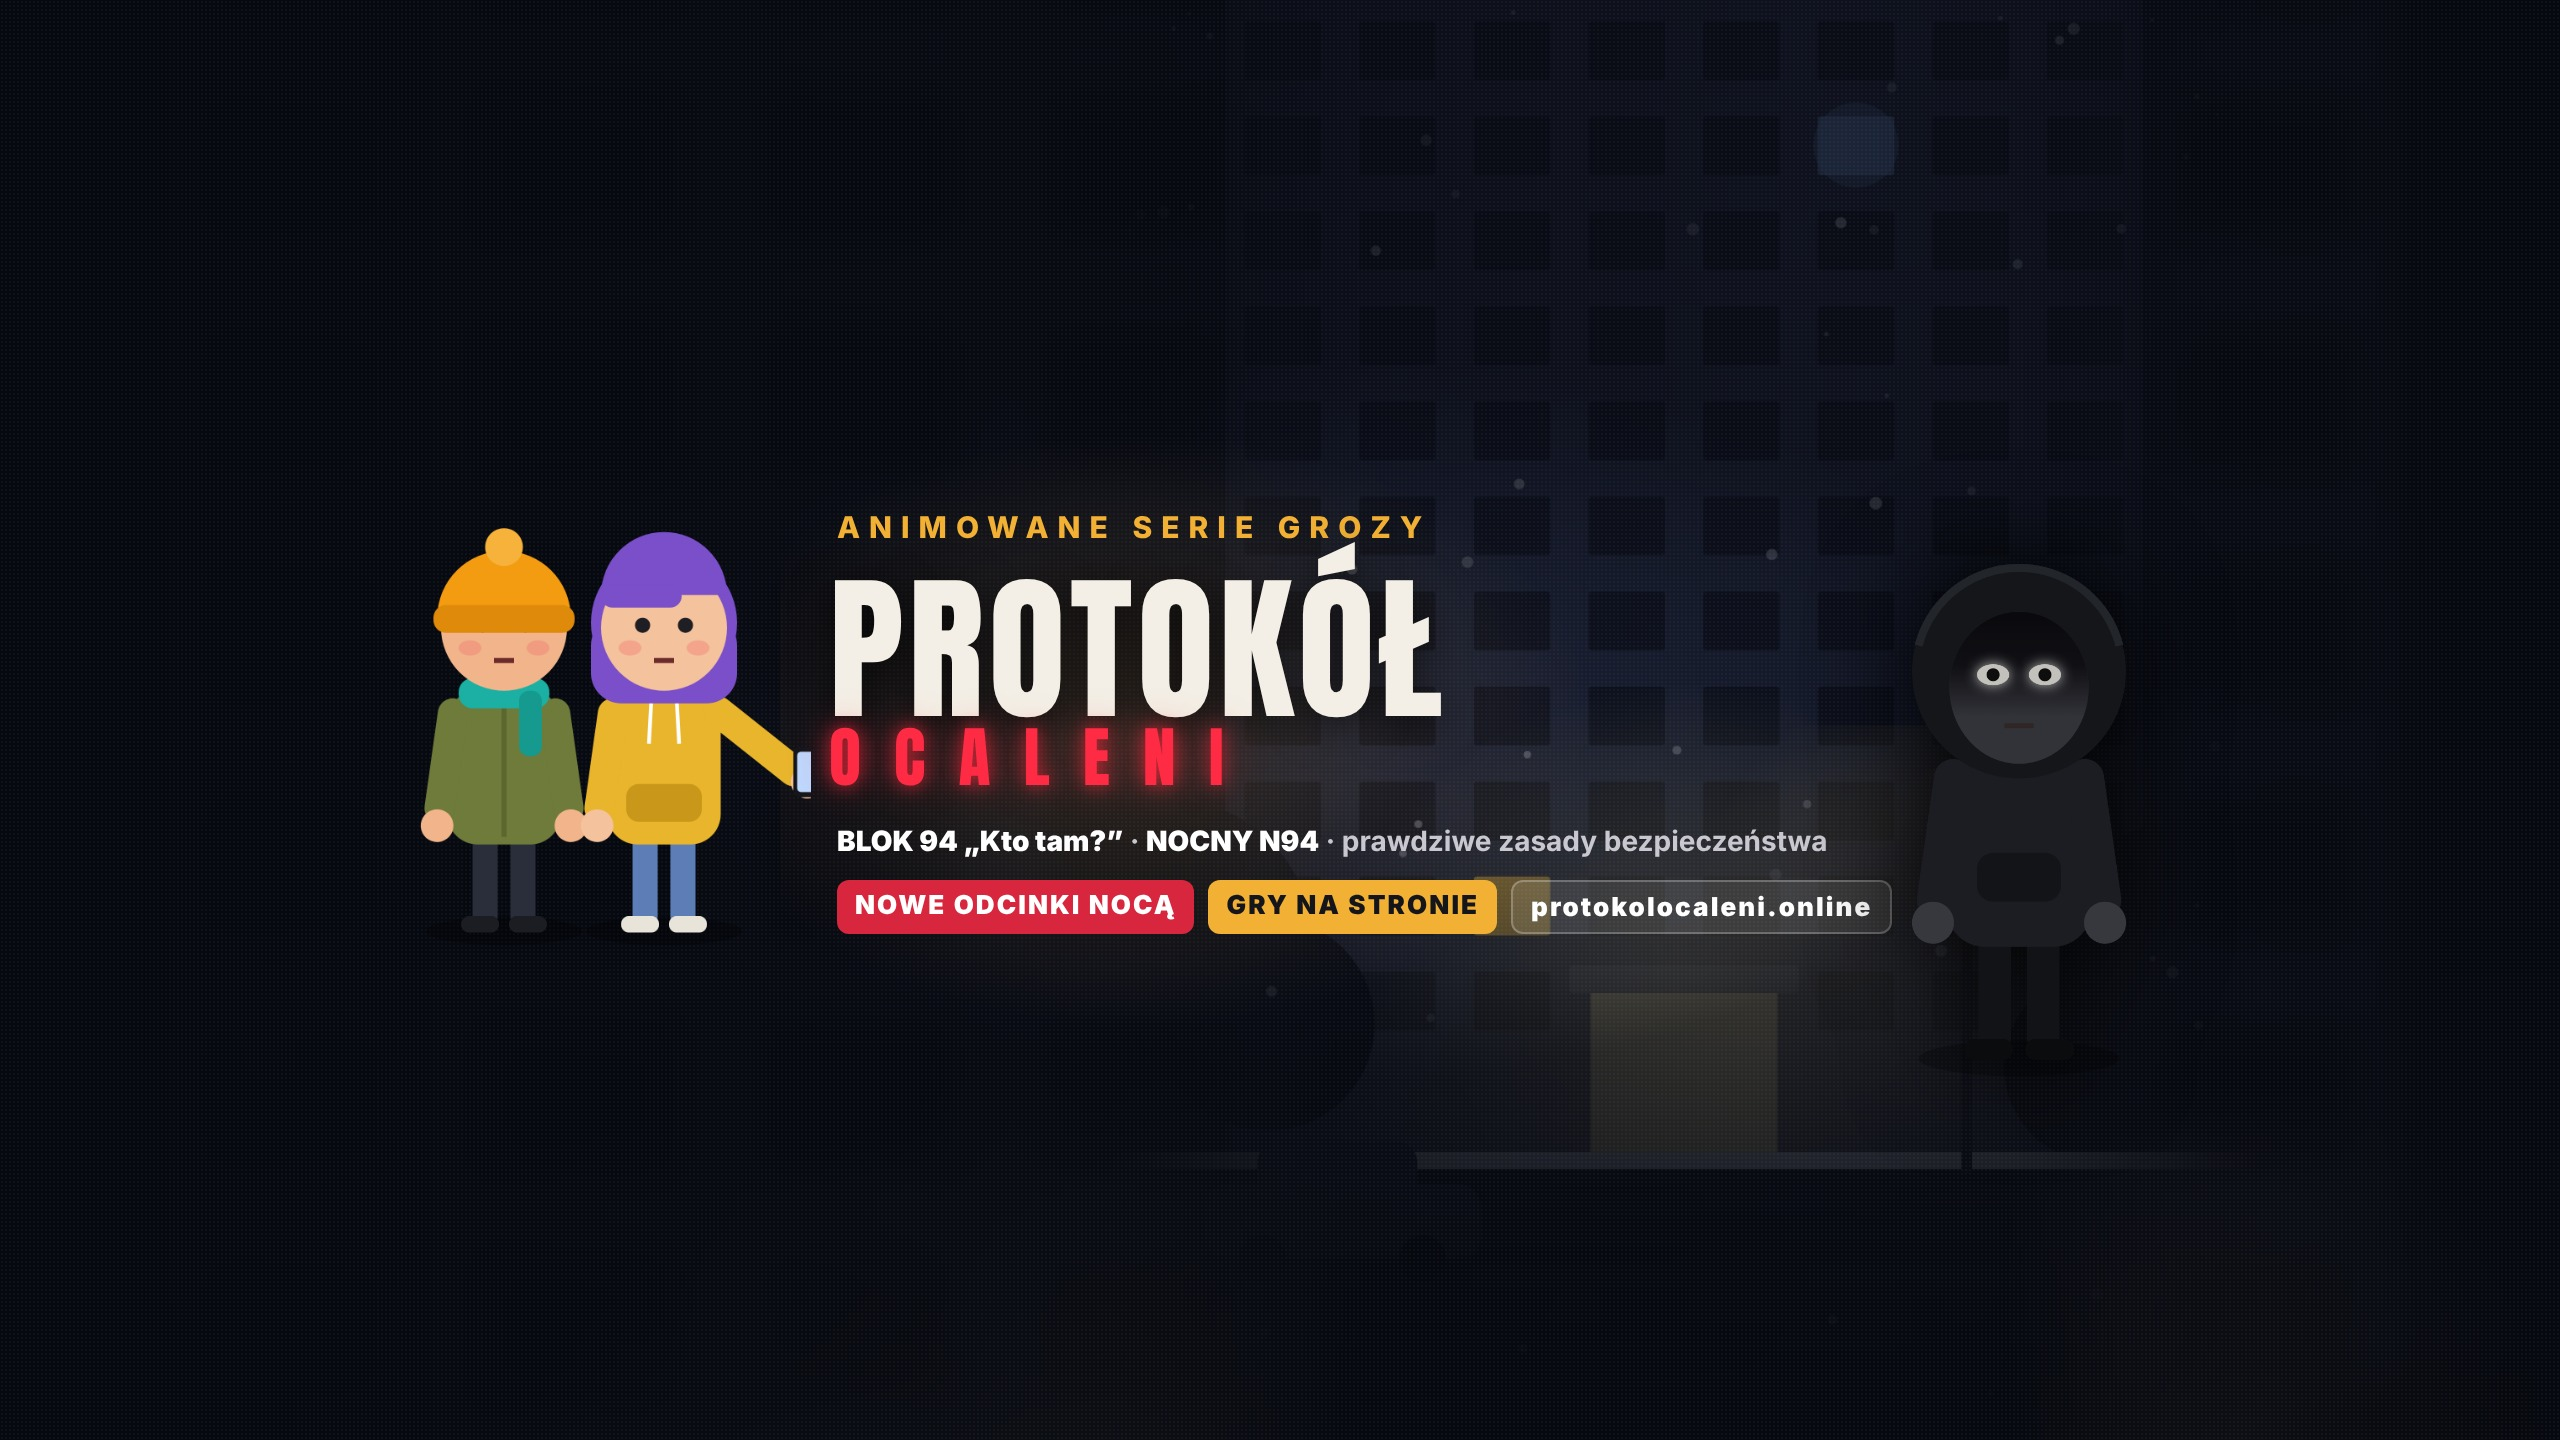
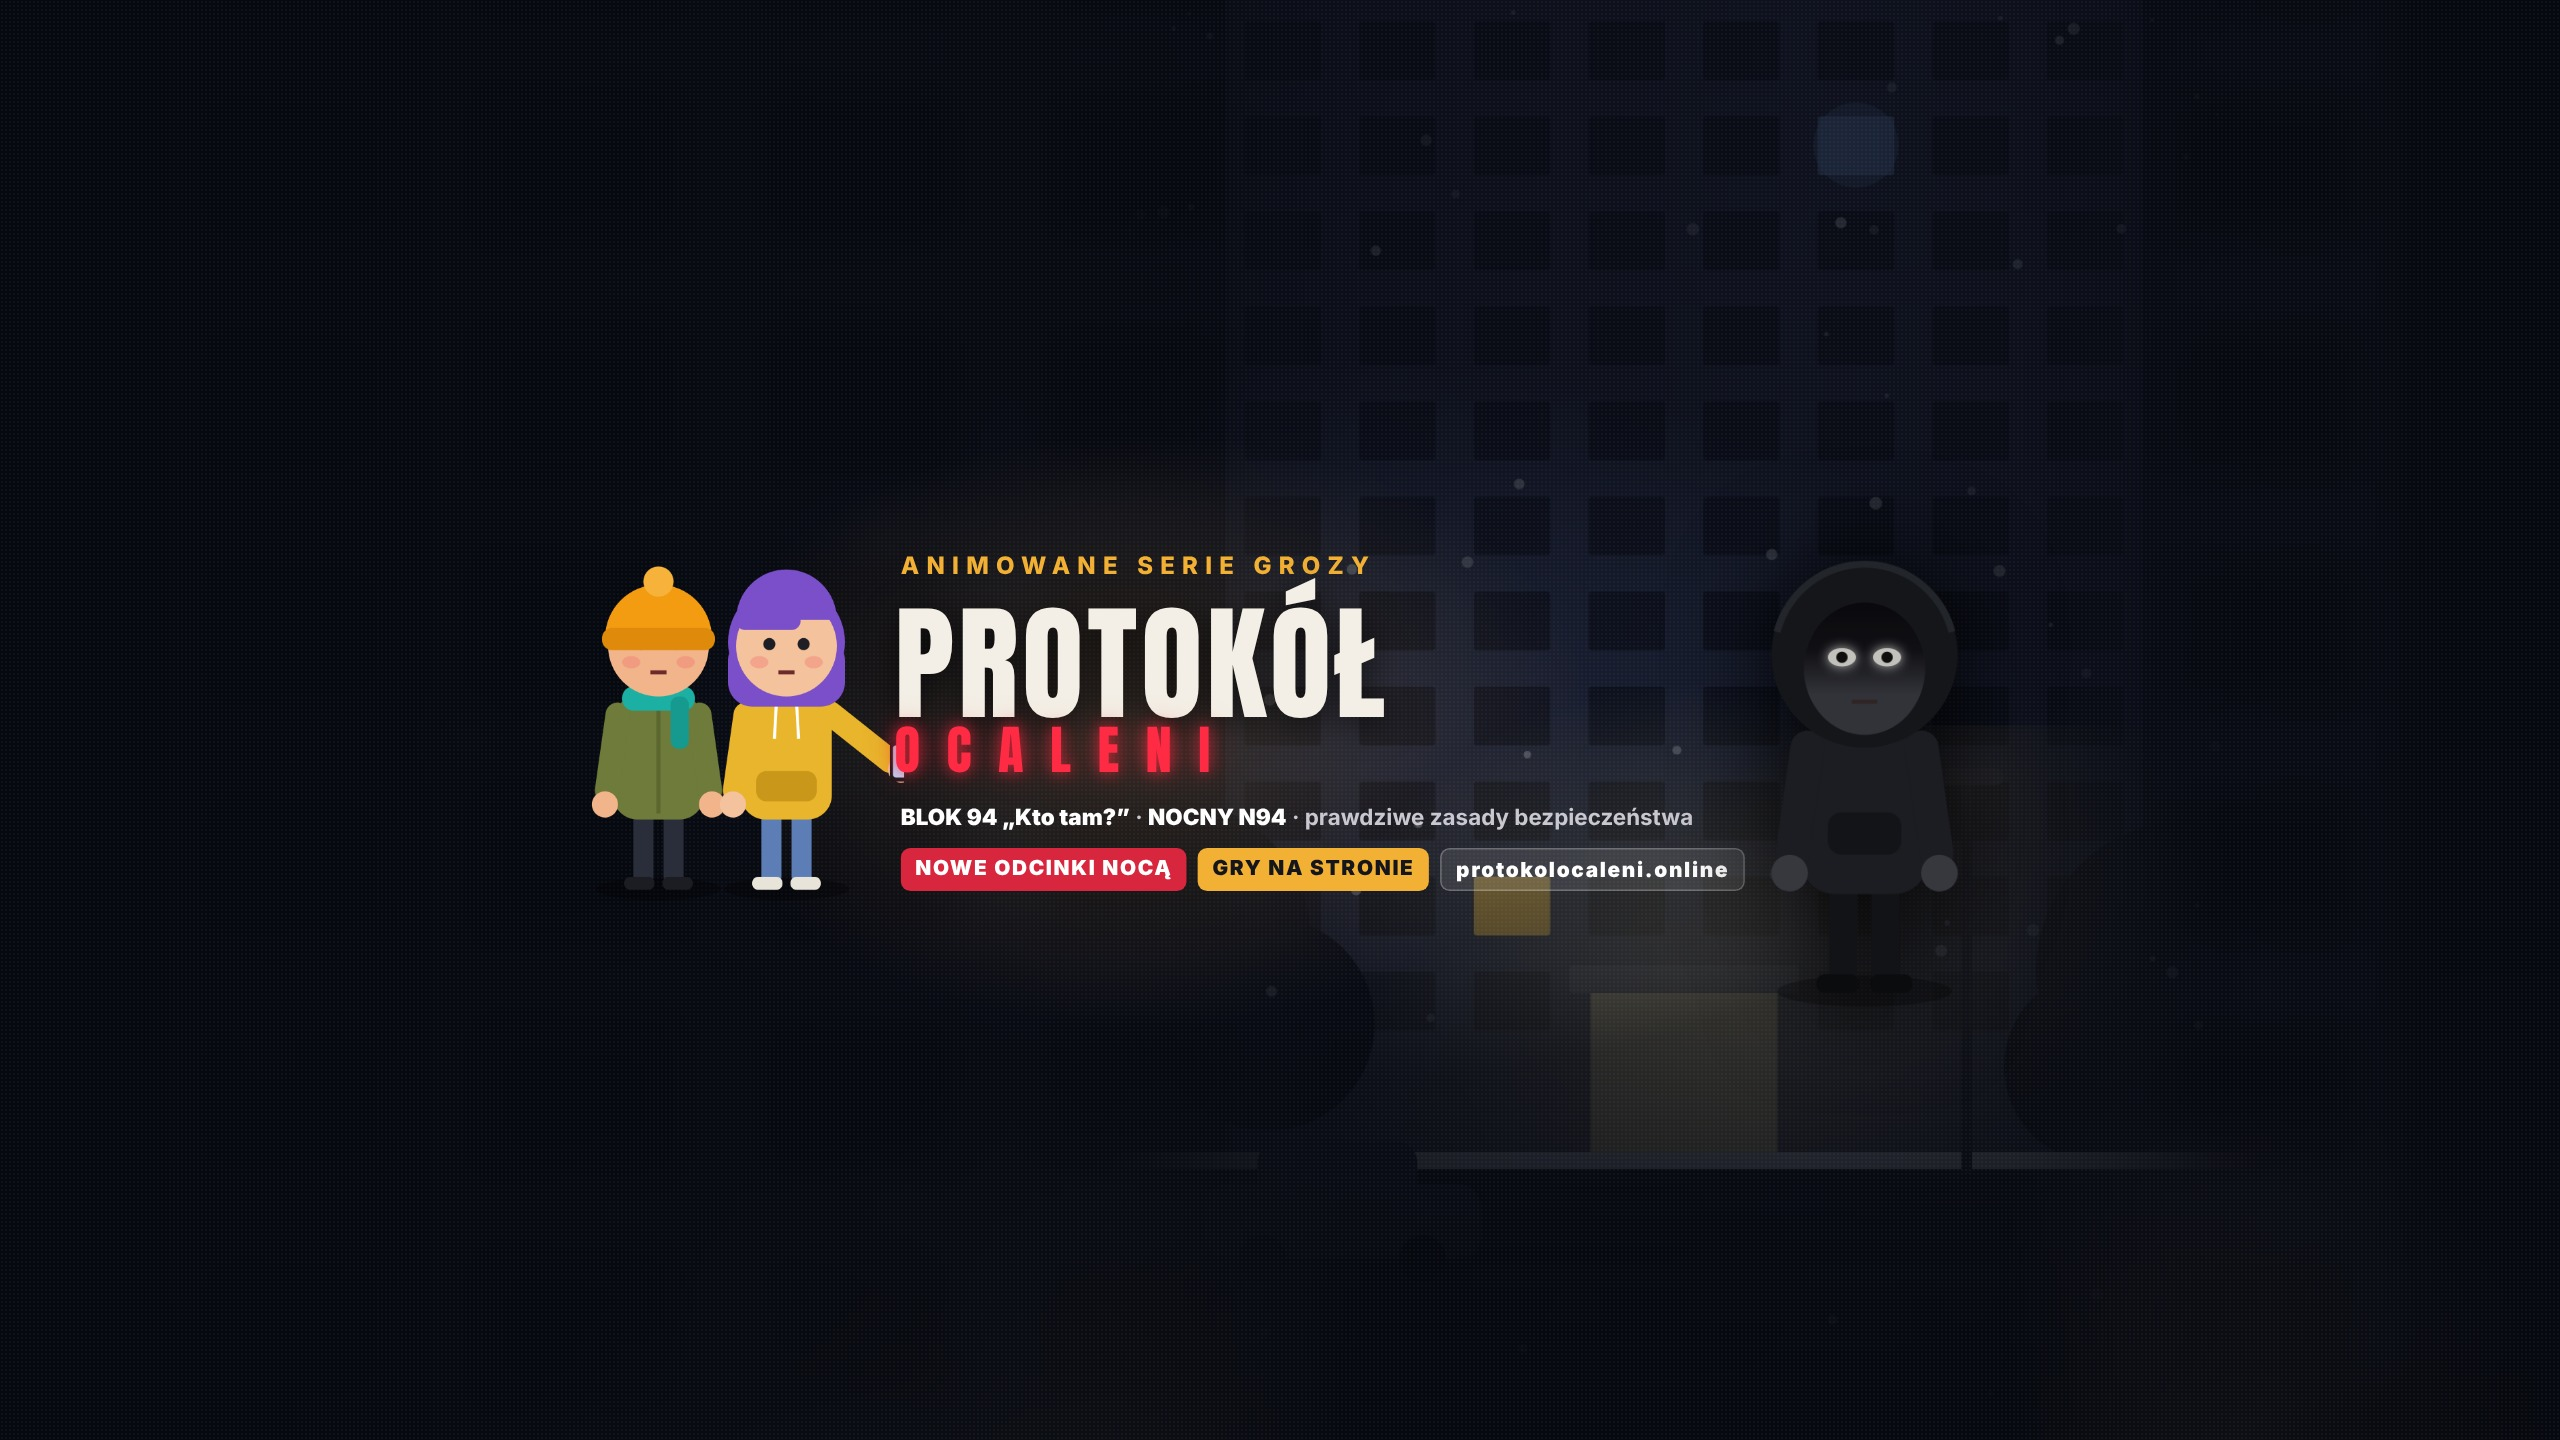
Baner YT: treść w strefie widocznej na wszystkich urządzeniach
Claude-Session: https://claude.ai/code/session_01XA7BeL8A8WqQ6rWtpD99qW

Changed region(s): [[0.1562, 0.3438, 0.7812, 0.6562], [0.6875, 0.4375, 0.8125, 0.5312], [0.8125, 0.625, 0.8438, 0.6562]]

diff --git a/film/promo/banner_yt2.html b/film/promo/banner_yt2.html
@@ -6,7 +6,7 @@ body{width:2560px;height:1440px;overflow:hidden;background:#06080f;font-family:I
 .shade{position:absolute;inset:0;background:radial-gradient(ellipse 1100px 520px at 1280px 720px,rgba(6,8,15,.15),rgba(6,8,15,.75) 70%),linear-gradient(90deg,rgba(6,8,15,.9) 0,rgba(6,8,15,.5) 40%,rgba(6,8,15,.05) 70%,rgba(6,8,15,.45))}
 .lamp{position:absolute;left:780px;top:380px;width:900px;height:700px;background:radial-gradient(ellipse at 40% 50%,rgba(255,190,100,.16),transparent 60%)}
 /* strefa bezpieczna 1546x423 od (507,508) */
-.safe{position:absolute;left:507px;top:508px;width:1546px;height:423px}
+.safe{position:absolute;left:507px;top:508px;width:1546px;height:423px;transform:scale(.8);transform-origin:42% 50%}
 .eyebrow{position:absolute;left:330px;top:4px;color:#f2b134;font:800 30px/1 Inter;letter-spacing:.3em}
 h1{position:absolute;left:322px;top:58px;color:#f3efe6;font:900 210px/0.9 "Inter Display",Inter;letter-spacing:-.02em;text-shadow:0 10px 40px rgba(0,0,0,.6)}
 h1 i{font-style:normal;position:relative}h1 i:after{content:"";position:absolute;left:6px;right:24px;bottom:-6px;height:16px;background:#d7263d}
@@ -20,7 +20,7 @@ h1 i{font-style:normal;position:relative}h1 i:after{content:"";position:absolute
 .kap{position:absolute;left:1180px;top:-40px}
 .kap img{height:500px;filter:brightness(.85) drop-shadow(0 0 40px rgba(0,0,0,.9))}
 .eyes{position:absolute;left:1180px;top:-40px;width:350px;height:500px;background:radial-gradient(circle at 51% 21%,rgba(255,240,200,.0),transparent)}
-.cast{position:absolute;left:-90px;top:20px;width:380px;height:420px}
+.cast{position:absolute;left:-60px;top:20px;width:380px;height:420px}
 .cast img{position:absolute;bottom:0;height:420px}
 .led{position:absolute;right:0;top:20px;padding:14px 22px;border:5px solid #ff3b30;box-shadow:0 0 28px rgba(255,40,30,.7);background:rgba(6,7,10,.9);color:#ff3b30;font:900 28px/1.1 Inter;letter-spacing:.06em;text-align:center;text-shadow:0 0 14px rgba(255,40,30,.9)}
 .led b{display:block;font-size:44px}
@@ -36,5 +36,5 @@ h1 i{font-style:normal;position:relative}h1 i:after{content:"";position:absolute
   <div class="tags"><span class="tag">NOWE ODCINKI NOCĄ</span><span class="tag y">GRY NA STRONIE</span><span class="tag d">protokolocaleni.online</span></div>
   
 </div>
-<div style="position:absolute;left:1830px;top:540px"><img src="out/blok94-kaptur.png" style="height:540px;filter:brightness(.8) drop-shadow(0 0 50px rgba(0,0,0,.95))"></div>
+<div style="position:absolute;left:1700px;top:540px"><img src="out/blok94-kaptur.png" style="height:470px;filter:brightness(.8) drop-shadow(0 0 50px rgba(0,0,0,.95))"></div>
 </body></html>
